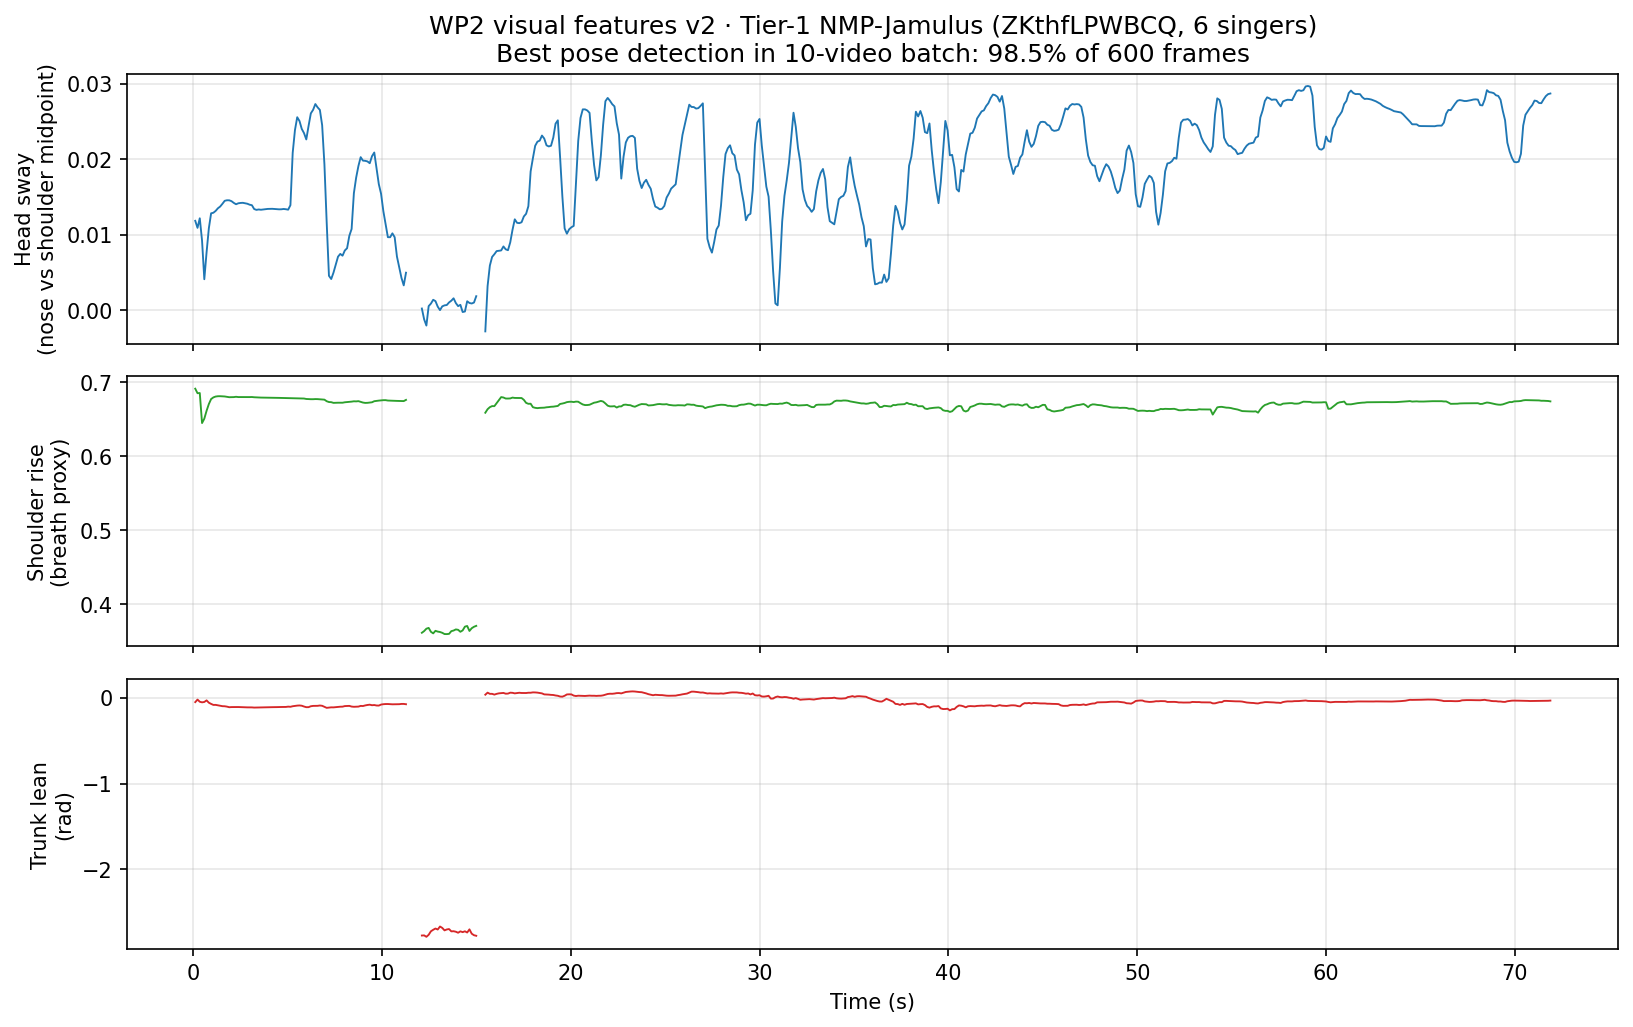
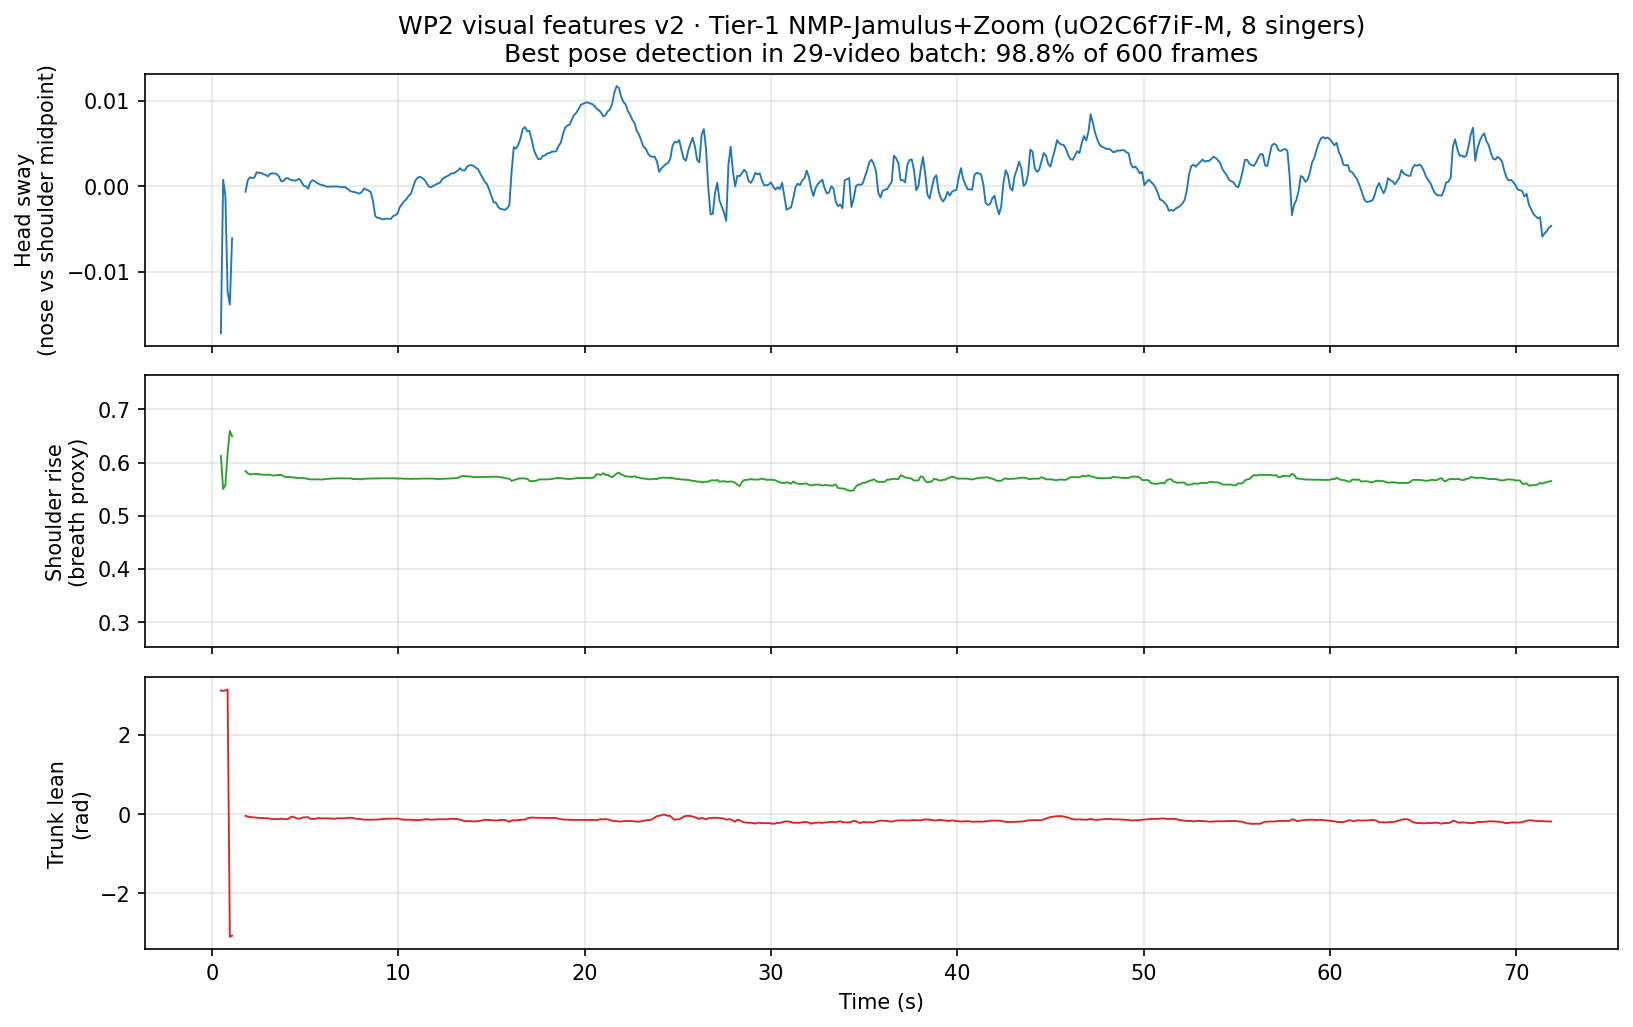
feat(wp2): pose extraction on all 29 Tier-1 videos (Jun-30 deliverable early)
Added --all mode (discovers every on-disk Tier-1 mp4 from the manifest).
Run: 29 videos, 18/29 pass the 50% pose-detection floor (62%, up from
5/10 in the stratified subset), 4.2 min (19 reused + 10 newly extracted).
Best detection uO2C6f7iF-M 98.8%, ZKthfLPWBCQ 98.5%; jui2O9xfAGo also
98% face. _pose_summary.csv now 29 rows. Completes the brief's WP2
all-Tier-1 milestone ahead of Jun 30.

diff --git a/scripts/wp2_tier1_batch.py b/scripts/wp2_tier1_batch.py
@@ -124,7 +124,7 @@ def render_v2_figure(summary: pd.DataFrame, lookup: dict[str, dict[str, str]]) -
     axes[0].set_title(
         f"WP2 visual features v2 · Tier-1 {meta['latency_regime_label']} "
         f"({best_id}, {meta['singer_count_est']} singers)\n"
-        f"Best pose detection in 10-video batch: {voiced.mean()*100:.1f}% of {len(df)} frames"
+        f"Best pose detection in {len(summary)}-video batch: {voiced.mean()*100:.1f}% of {len(df)} frames"
     )
     axes[1].plot(df["time_sec"], df["shoulder_rise"], color="#2ca02c", linewidth=0.9)
     axes[1].set_ylabel("Shoulder rise\n(breath proxy)")
@@ -141,13 +141,22 @@ def render_v2_figure(summary: pd.DataFrame, lookup: dict[str, dict[str, str]]) -
     return FIGURE_OUT
 
 
-def run() -> None:
+def discover_on_disk_videos(lookup: dict[str, dict[str, str]]) -> list[str]:
+    """Every manifest video whose mp4 is present under data/raw/tier1/."""
+    return sorted(
+        vid for vid in lookup
+        if (RAW_ROOT / vid / f"{vid}.mp4").exists()
+    )
+
+
+def run(all_videos: bool = False) -> None:
     lookup = load_manifest_lookup()
     PROCESSED_ROOT.mkdir(parents=True, exist_ok=True)
+    video_ids = discover_on_disk_videos(lookup) if all_videos else SELECTED_VIDEOS
     rows: list[dict[str, object]] = []
     total_start = time.perf_counter()
 
-    for i, video_id in enumerate(SELECTED_VIDEOS, 1):
+    for i, video_id in enumerate(video_ids, 1):
         meta = lookup.get(video_id)
         if meta is None:
             raise KeyError(f"video_id not in manifest: {video_id}")
@@ -158,7 +167,7 @@ def run() -> None:
         flag = "PASS" if row["quality_pass"] else "FAIL"
         source = "reused" if row["reused_parquet"] else "extracted"
         print(
-            f"  [{i:2d}/{len(SELECTED_VIDEOS)}] {video_id:14s} "
+            f"  [{i:2d}/{len(video_ids)}] {video_id:14s} "
             f"({row['regime']:18s}) "
             f"{row['n_frames_processed']:>4d} frames, "
             f"pose {row['pose_detection_rate']:.1%}, "
@@ -179,5 +188,17 @@ def run() -> None:
     print(f"Wrote V(t) figure for best-detection video: {figure_path}")
 
 
+def main() -> None:
+    import argparse
+
+    parser = argparse.ArgumentParser(description=__doc__)
+    parser.add_argument(
+        "--all", action="store_true",
+        help="Process every Tier-1 mp4 on disk (default: the 10 stratified picks).",
+    )
+    args = parser.parse_args()
+    run(all_videos=args.all)
+
+
 if __name__ == "__main__":
-    run()
+    main()
